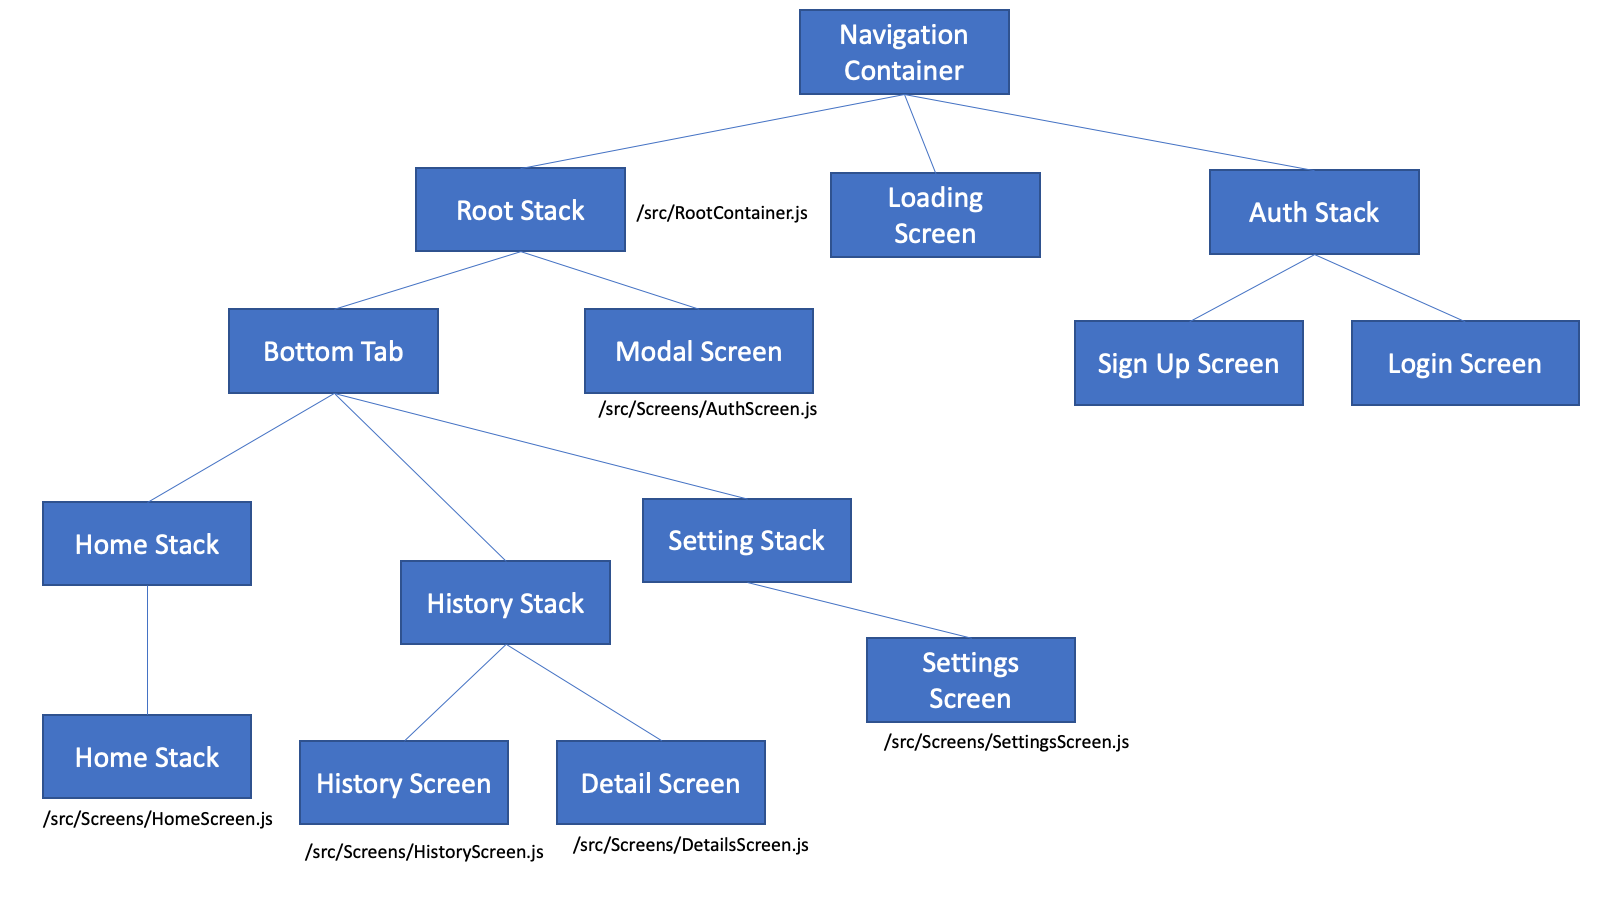
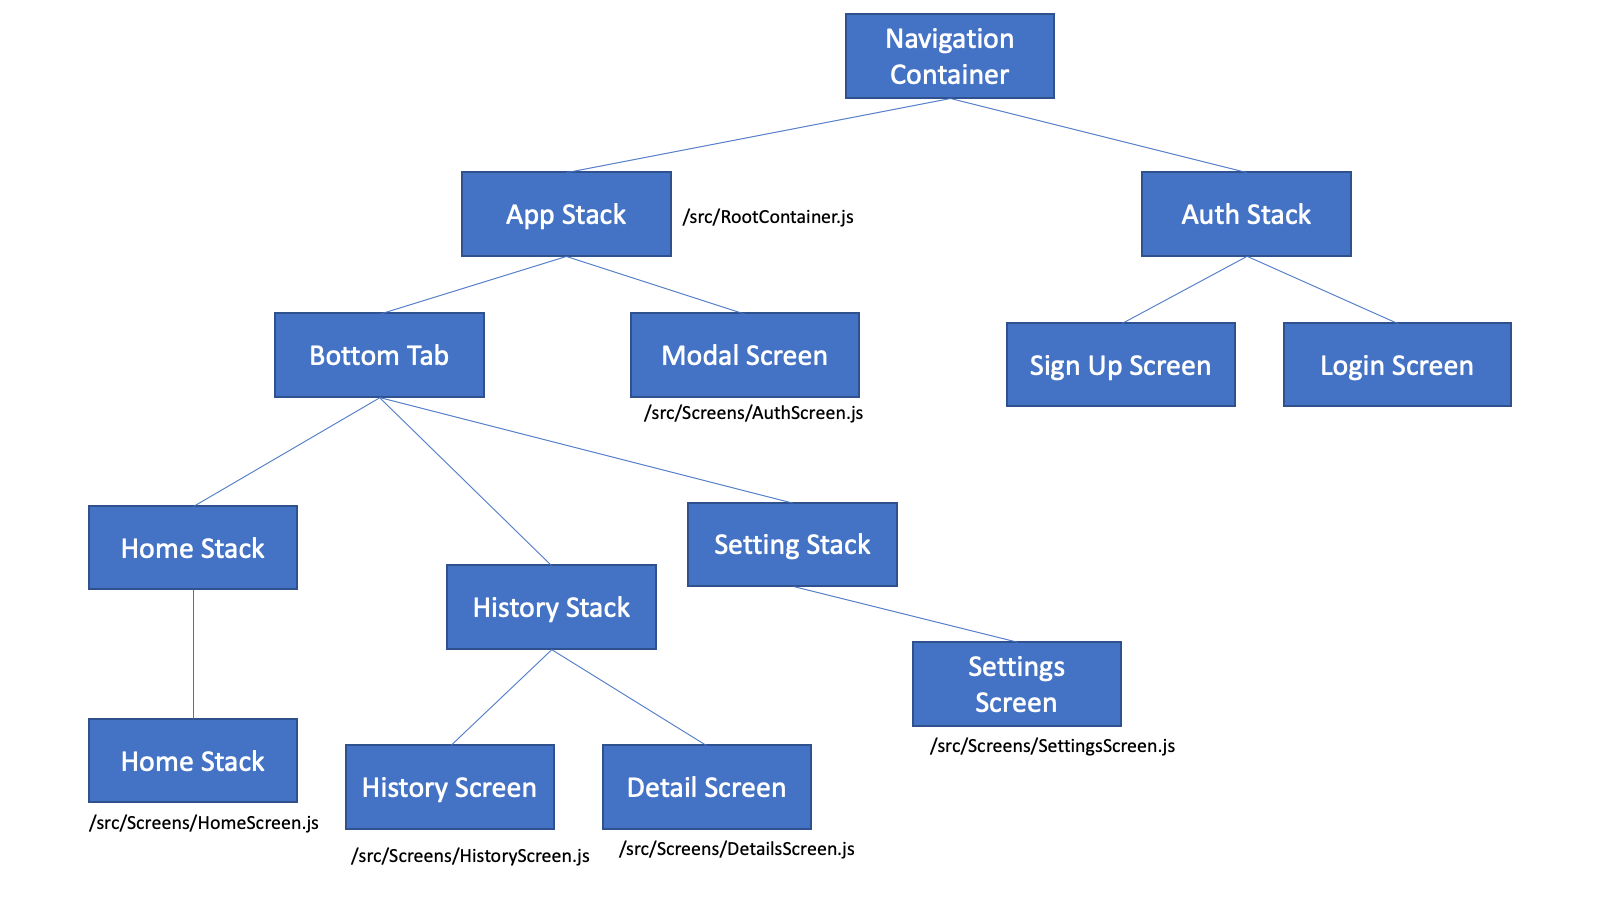
Updating navigation stacks and removing layers

diff --git a/src/AppContainer.js b/src/AppContainer.js
@@ -5,86 +5,25 @@ import { Ionicons } from '@expo/vector-icons';
 
 import HistoryScreen from './Screens/HistoryScreen';
 import SettingsScreen from './Screens/SettingsScreen';
-// TODO: need detail screen
 import DetailsScreen from './Screens/DetailsScreen';
 import HomeScreen from './Screens/HomeScreen';
 import ModalScreen from './Screens/AuthScreen';
 
 const Stack = createStackNavigator();
+const HomeStack = createStackNavigator();
 const Tab = createBottomTabNavigator();
-// const HomeStack = createStackNavigator();
-// const HistoryStack = createStackNavigator();
-// const SettingsStack = createStackNavigator();
 
-// const HomeStackNavigator = ({ navigation, route }) => {
-//   if (route.state) {
-//     navigation.setOptions({
-//       tabBarVisible: route.state.index > 0 ? false : true
-//     });
+// function getHeaderTitle(route) {
+//   const routeName = route.name;
+//   switch (routeName) {
+//     case 'History':
+//       return 'My Travel Records';
+//     case 'Settings':
+//       return 'My Settings';
+//     default:
+//       return 'Welcome';
 //   }
-//   return (
-//     <HomeStack.Navigator>
-//       <HomeStack.Screen
-//         options={({ route }) => ({
-//           title: getHeaderTitle(route)
-//         })}
-//         name='Home'
-//         component={HomeScreen}
-//       />
-//     </HomeStack.Navigator>
-//   );
-// };
-
-// const HistoryStackNavigator = ({ navigation, route }) => {
-//   if (route.state) {
-//     navigation.setOptions({
-//       tabBarVisible: route.state.index > 0 ? false : true
-//     });
-//   }
-//   return (
-//     <HistoryStack.Navigator>
-//       <HistoryStack.Screen
-//         options={({ route }) => ({
-//           title: getHeaderTitle(route)
-//         })}
-//         name='History'
-//         component={HistoryScreen}
-//       />
-//       <HistoryStack.Screen name='Details' component={DetailsScreen} />
-//     </HistoryStack.Navigator>
-//   );
-// };
-
-// const SettingsStackNavigator = ({ navigation, route }) => {
-//   if (route.state) {
-//     navigation.setOptions({
-//       tabBarVisible: route.state.index > 0 ? false : true
-//     });
-//   }
-//   return (
-//     <SettingsStack.Navigator>
-//       <SettingsStack.Screen
-//         options={({ route }) => ({
-//           title: getHeaderTitle(route)
-//         })}
-//         name='Settings'
-//         component={SettingsScreen}
-//       />
-//     </SettingsStack.Navigator>
-//   );
-// };
-
-function getHeaderTitle(route) {
-  const routeName = route.name;
-  switch (routeName) {
-    case 'History':
-      return 'My Travel Records';
-    case 'Settings':
-      return 'My Settings';
-    default:
-      return 'Welcome';
-  }
-}
+// }
 
 function shouldHeaderBeShown(route) {
   const routeName = route.state
@@ -140,6 +79,28 @@ const HomeTabNavigator = ({ navigation, route }) => {
   );
 };
 
+const HomeStackNavigator = () => {
+  return (
+    <HomeStack.Navigator>
+      <HomeStack.Screen
+        options={() => ({
+          title: 'Settings',
+          headerShown: false
+        })}
+        name='HomeTabNavigator'
+        component={HomeTabNavigator}
+      />
+      <HomeStack.Screen
+        options={() => ({
+          headerShown: true
+        })}
+        name='Details'
+        component={DetailsScreen}
+      />
+    </HomeStack.Navigator>
+  );
+};
+
 export default function AppContainer() {
   return (
     <Stack.Navigator
@@ -151,8 +112,8 @@ export default function AppContainer() {
         options={({ route }) => ({
           headerShown: shouldHeaderBeShown(route)
         })}
-        name='HomeTabNavigator'
-        component={HomeTabNavigator}
+        name='HomeStackNavigator'
+        component={HomeStackNavigator}
       />
       <Stack.Screen
         options={() => ({

diff --git a/src/Screens/HomeScreen.js b/src/Screens/HomeScreen.js
@@ -9,7 +9,9 @@ import {
   Icon,
   Title,
   Text,
-  Content
+  Content,
+  Card,
+  CardItem
 } from 'native-base';
 
 export default function({ navigation }) {
@@ -30,21 +32,26 @@ export default function({ navigation }) {
           </Button>
         </Right>
       </Header>
-      <Content>
-        <Button
-          onPress={() => {
-            navigation.replace('Home');
-          }}
-        >
-          <Text>Save</Text>
-        </Button>
-        <Button
-          onPress={() => {
-            navigation.navigate('Modal');
-          }}
-        >
-          <Text>Open Modal</Text>
-        </Button>
+      <Content padder style={{ alignContent: 'center' }}>
+        <Card>
+          <CardItem>
+            <Body>
+              <Text>//Your text here</Text>
+              <Text>//Your text here</Text>
+              <Text>//Your text here</Text>
+              <Text>//Your text here</Text>
+              <Text>//Your text here</Text>
+              <Button
+                onPress={() => {
+                  navigation.navigate('Modal');
+                }}
+                bordered
+              >
+                <Text>Open Modal</Text>
+              </Button>
+            </Body>
+          </CardItem>
+        </Card>
       </Content>
     </Container>
   );

diff --git a/src/Screens/HistoryScreen.js b/src/Screens/HistoryScreen.js
@@ -9,7 +9,9 @@ import {
   Icon,
   Title,
   Text,
-  Content
+  Content,
+  Card,
+  CardItem
 } from 'native-base';
 
 export default function({ navigation }) {
@@ -31,13 +33,20 @@ export default function({ navigation }) {
         </Right>
       </Header>
       <Content>
-        <Button
-          onPress={() => {
-            navigation.navigate('Details');
-          }}
-        >
-          <Text>Go to Details Screen</Text>
-        </Button>
+        <Card transparent>
+          <CardItem>
+            <Body>
+              <Button
+                onPress={() => {
+                  navigation.navigate('Details');
+                }}
+                bordered
+              >
+                <Text>Go to Details Screen</Text>
+              </Button>
+            </Body>
+          </CardItem>
+        </Card>
       </Content>
     </Container>
   );
